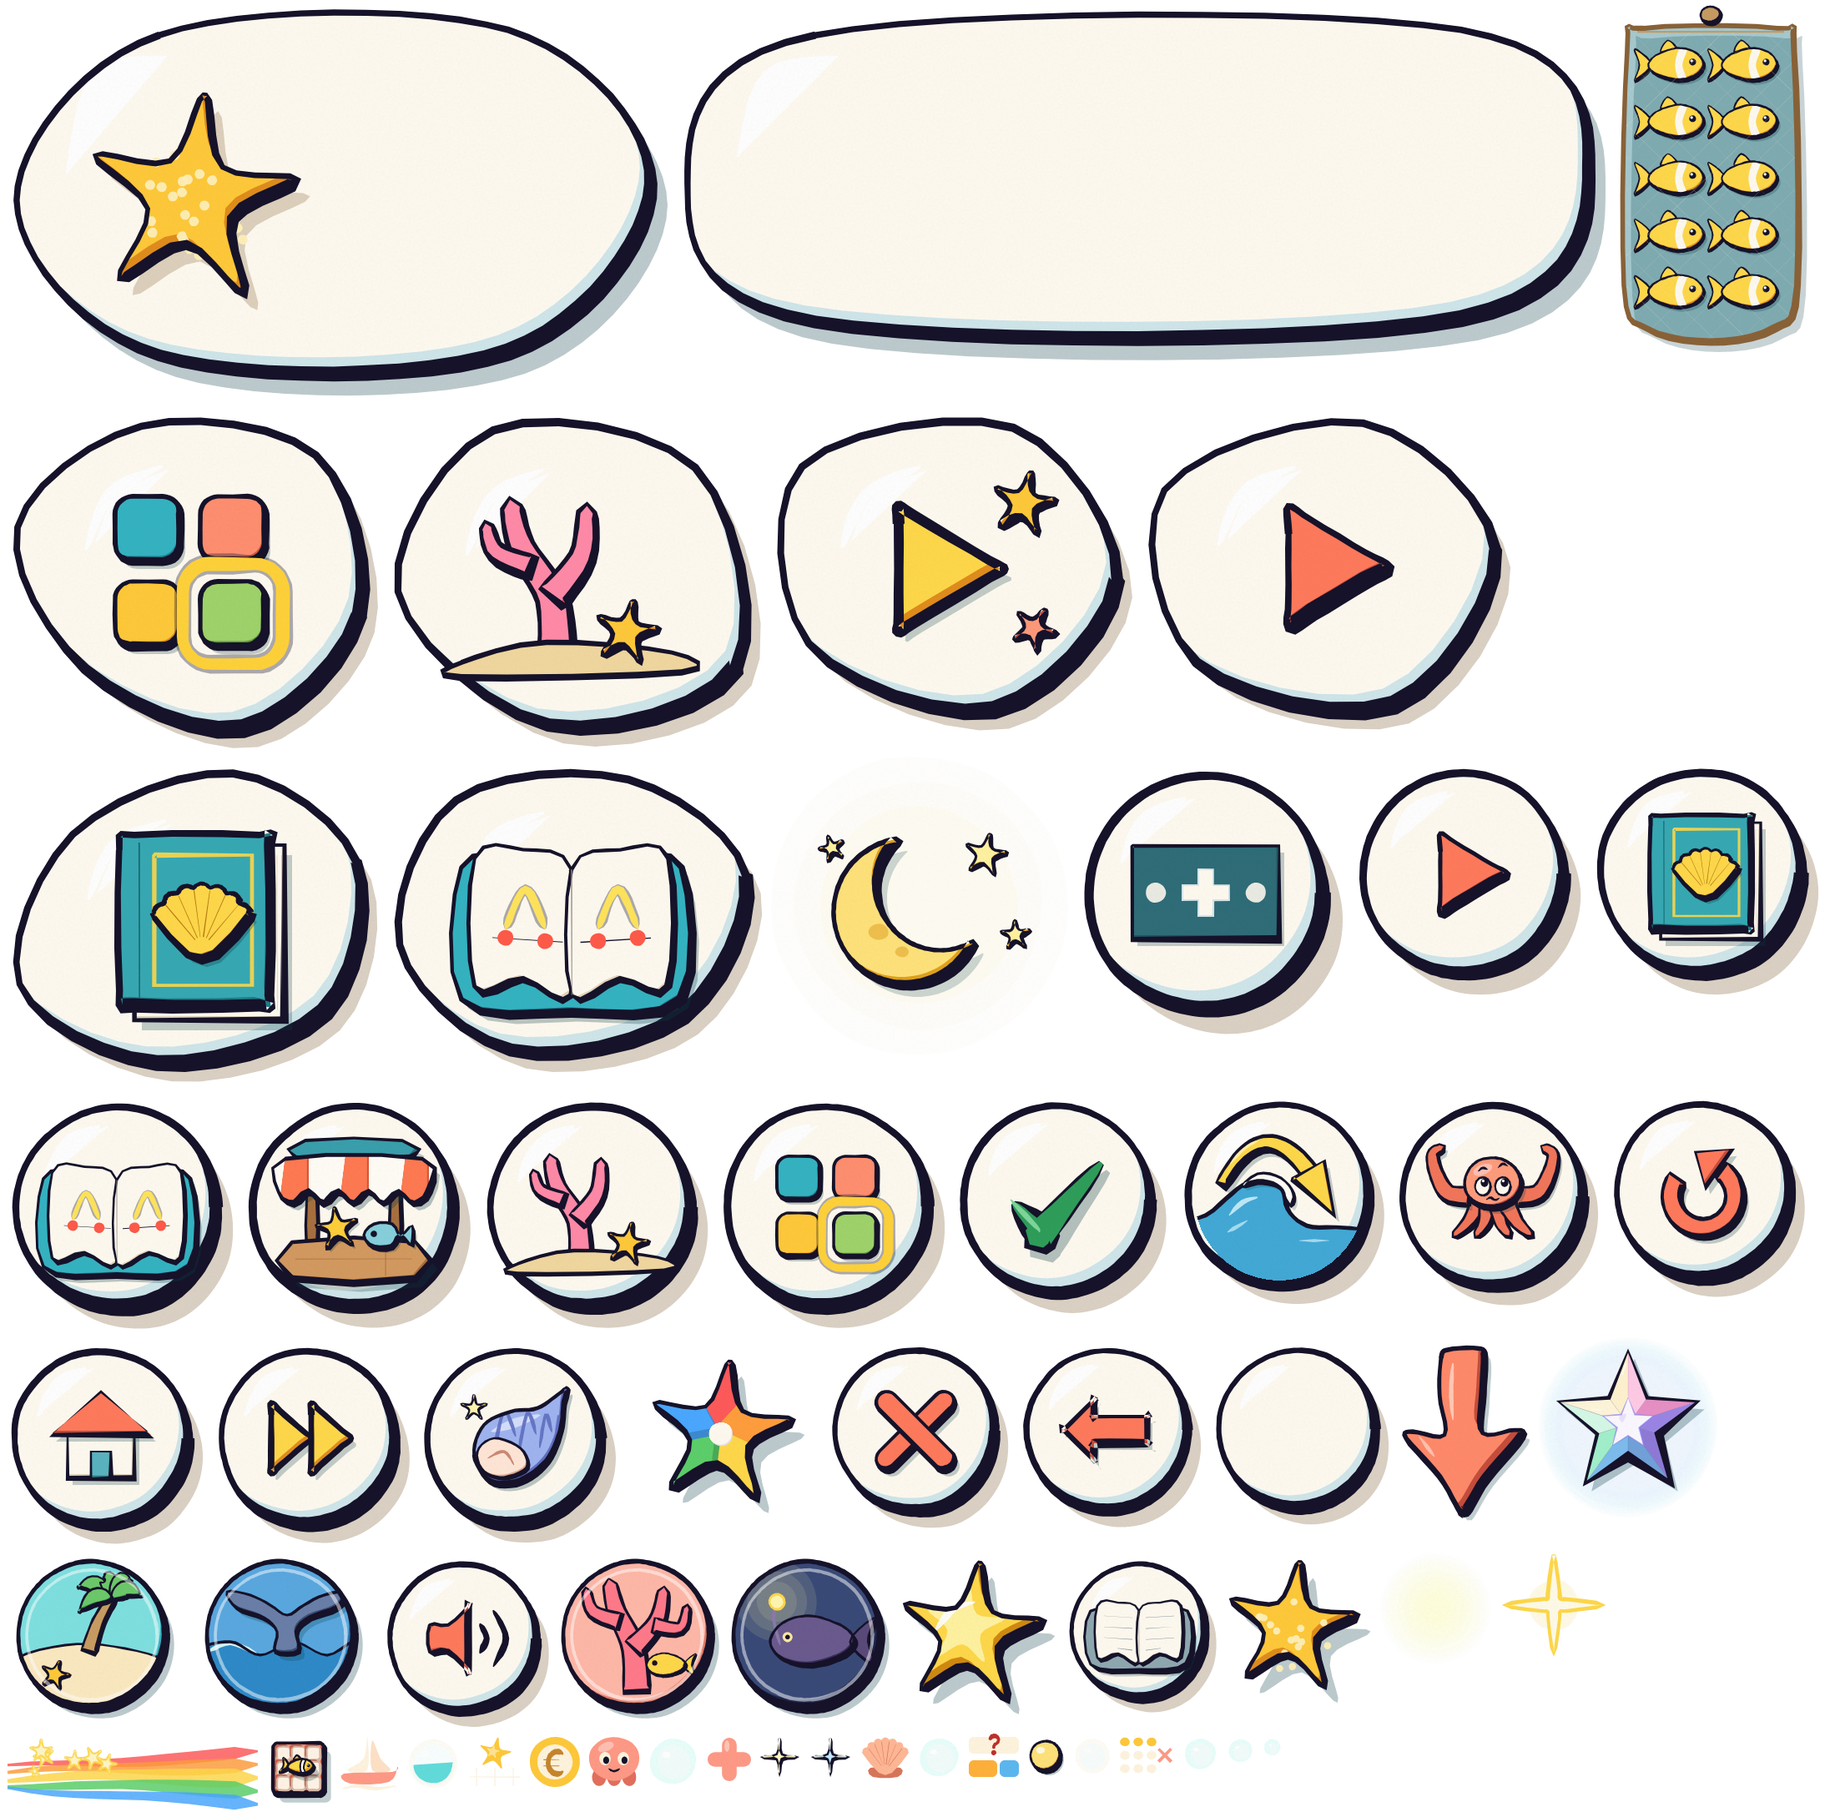
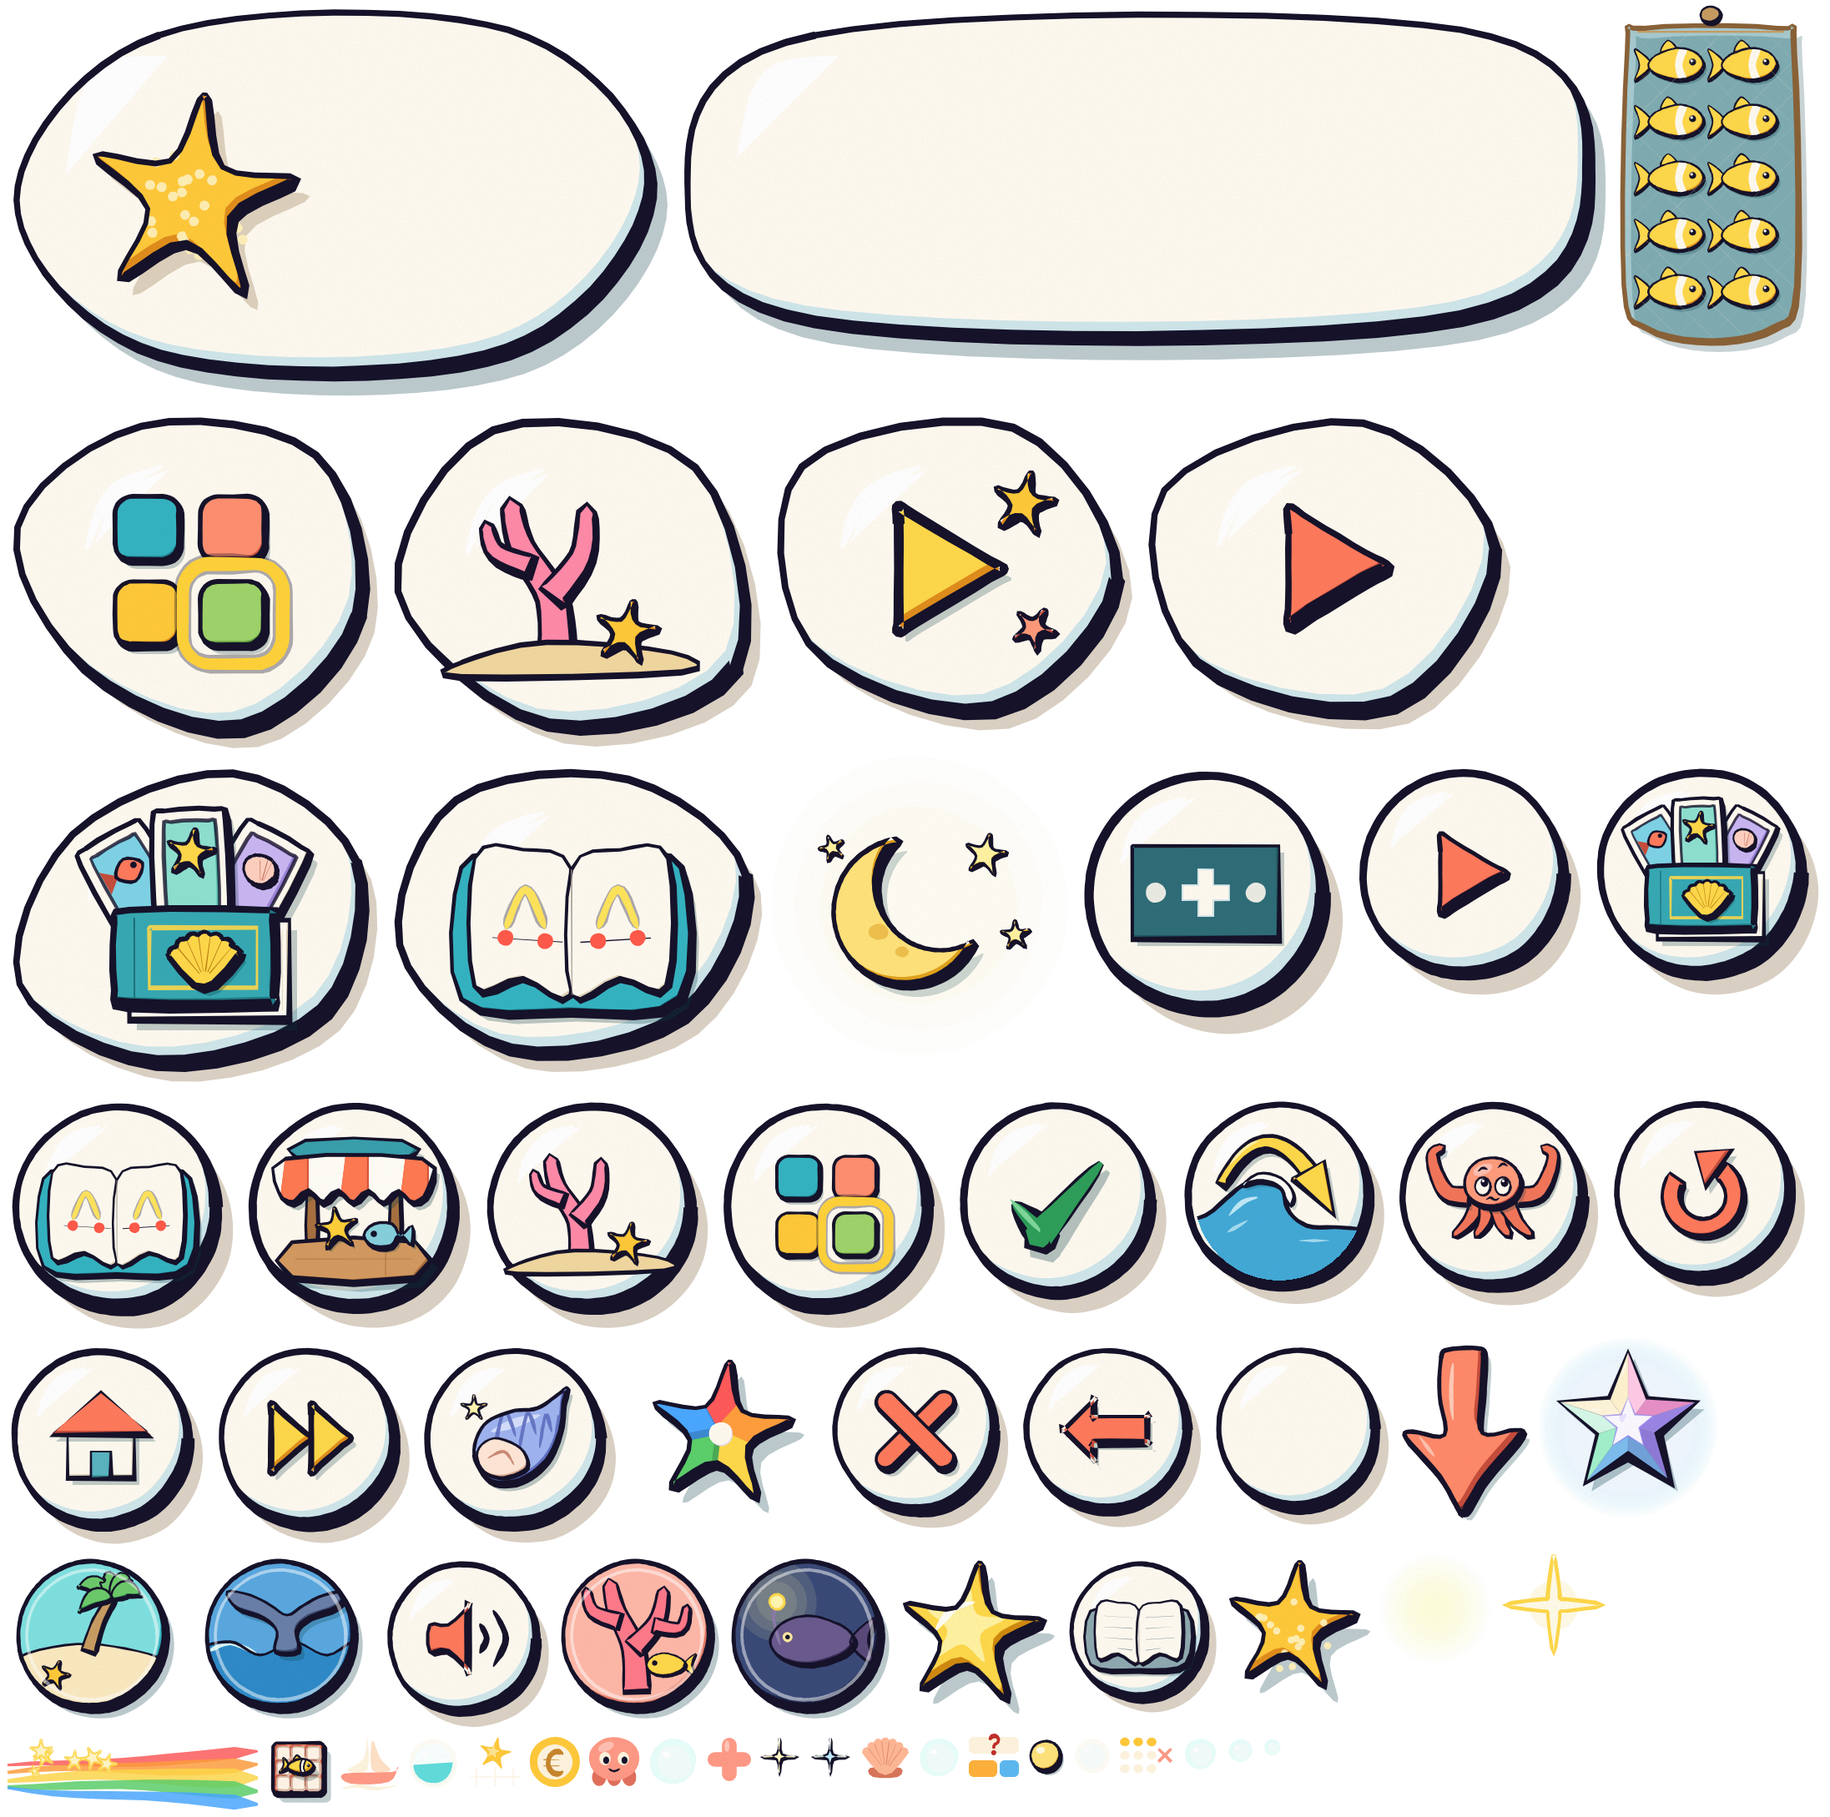
Réserve arc-en-ciel montrée à 0, livre de cartes pour l'album, sortie de l'album par le récif
Réponses du parent du 6 novembre 2026 aux questions ouvertes de la PR #75 :
- les trois compteurs toujours visibles ; la réserve arc-en-ciel à 0
  touchée dit à quoi elles servent puis « Viens jouer souvent : tu en
  gagneras une ! » (aucune phrase nouvelle) ;
- le bouton de l'album, dans le récif : un livre de cartes dessiné dans
  l'atelier (sea/ui.ts), à la taille de la maison ;
- la sortie de l'album : le dessin du récif (comme la boutique).
Parcours du lot : tests/e2e/suites-5-novembre.mjs.

Claude-Session: https://claude.ai/code/session_013eorU28WW9wEYPXEPWCJhw

Changed region(s): [[0.031, 0.4371, 0.186, 0.562], [0.8682, 0.4371, 0.9922, 0.5308]]

diff --git a/art/src/canvas-core/sea/ui.ts b/art/src/canvas-core/sea/ui.ts
@@ -53,25 +53,54 @@ export const drawAgainIcon = (g: Gfx, cx: number, cy: number) => {
     const st2 = O.starShape([cx + 34, cy + 24], 9, 4, 0.5); cel(g, st2, "#ff9a7a", CORAL_S, 2); contour(g, st2, 2.2, 3432);
   });
 };
-// « album » : un livre fermé, couverture turquoise et tranche crème, un coquillage doré sur la couverture
+// « album » : un livre de cartes : le livre fermé de l'album (couverture turquoise, coquillage doré), trois cartes en éventail qui en
+// sortent par le haut (lot « Suites des correctifs du 5 novembre », décision du parent du 6 novembre 2026 : l'album, ouvert depuis le
+// récif, ne se confond plus avec le livre ouvert des leçons)
 export const drawAlbumKey = (g: Gfx, cx: number, cy: number) => {
   drawAnswerBubble(g, cx, cy, 20, 60);
   drawAlbumIcon(g, cx, cy);
 };
+// une petite carte, tournée de `a` autour du milieu de son bas (px, py) : le cadre crème, la fenêtre de mer, et ce qu'elle montre
+const CARTES: { a: number; h: number; eau: string; eauS: string; motif: "poisson" | "etoile" | "coquille" }[] = [
+  { a: -0.52, h: 50, eau: "#7fd3e6", eauS: "#4aa6c4", motif: "poisson" },
+  { a: 0.5, h: 50, eau: "#c9b6f2", eauS: "#9a83d6", motif: "coquille" },
+  { a: -0.04, h: 54, eau: "#8fe0d0", eauS: "#4fb3a4", motif: "etoile" },
+];
+const drawMiniCard = (g: Gfx, px: number, py: number, c: (typeof CARTES)[number], seed: number) => {
+  const W = 30, ca = Math.cos(c.a), sa = Math.sin(c.a), T = (pts: P[]): P[] => pts.map(([x, y]) => [px + x * ca - y * sa, py + x * sa + y * ca]);
+  const rr = (x: number, y: number, w: number, h: number, r: number): P[] => smooth([[x + r, y], [x + w - r, y], [x + w, y + r], [x + w, y + h - r], [x + w - r, y + h], [x + r, y + h], [x, y + h - r], [x, y + r]], true, 3);
+  const card = T(rr(-W / 2, -c.h, W, c.h, 5)), win = T(rr(-W / 2 + 4.5, -c.h + 4.5, W - 9, c.h - 13, 3));
+  fillShape(g, shift(card, 3, 4), SH, 0.25); cel(g, card, "#fffaf0", "#e0d4bc", 2.5); contour(g, card, 2.8, seed);
+  cel(g, win, c.eau, c.eauS, 2); ink(g, win, INK, { w: 1.4, closed: true, shadow: 0, seed: seed + 1 }, 0.8);
+  // le motif, dans le haut de la fenêtre (le bas est caché par le livre)
+  const my = -c.h * 0.68, m = T([[0, my]])[0];
+  if (c.motif === "poisson") {
+    const body = T(smooth([[7, my], [1, my - 5], [-5, my], [1, my + 5]], true, 4)), tail = T([[-4, my], [-10, my - 5], [-10, my + 5]]);
+    fillShape(g, tail, CORAL_S); fillShape(g, body, CORAL); ink(g, body, INK, { w: 1.3, closed: true, shadow: 0, seed: seed + 2 });
+    const oe = T([[3.5, my - 1]])[0]; fillShape(g, blob(oe[0], oe[1], 1.3, 1.3, seed + 3, 0.02, 8), INK);
+  } else if (c.motif === "etoile") {
+    const st = O.starShape(m, 10, 4.4, c.a + 0.2); cel(g, st, GOLD, GOLD_S, 1.6); contour(g, st, 2, seed + 2);
+  } else {
+    const sh = blob(m[0], m[1], 7, 6, seed + 2, 0.06, 12, c.a); cel(g, sh, "#ffd0c0", "#e2907a", 1.6); contour(g, sh, 1.8, seed + 3);
+    [-0.5, 0, 0.5].forEach((d, i) => ink(g, [[m[0] + Math.sin(c.a + d) * 1.5, m[1] + 4], [m[0] + Math.sin(c.a + d) * 6, m[1] - 4]], "#c06a55", { w: 1.1, shadow: 0, seed: seed + 4 + i }));
+  }
+};
 // (lot « Correctifs : passage… », point 10 : le pictogramme seul, repris agrandi sur le galet de l'accueil)
 export const drawAlbumIcon = (g: Gfx, cx: number, cy: number) => {
+  // les cartes, derrière le livre : elles en sortent par le haut
+  CARTES.forEach((c, i) => drawMiniCard(g, cx + (i === 0 ? -10 : i === 1 ? 10 : 0), cy + 10, c, 3460 + i * 10));
   g.group("plain", () => {
-    const x0 = cx - 30, x1 = cx + 30, y0 = cy - 34, y1 = cy + 34;
+    const x0 = cx - 32, x1 = cx + 32, y0 = cy - 4, y1 = cy + 34;
     const pages = smooth([[x0 + 6, y0 + 4], [x1 + 6, y0 + 4], [x1 + 6, y1 + 6], [x0 + 6, y1 + 6]], true, 1);
     shadowed(g, pages, "#fffaf0", "#e0d4bc", 3, 3440, 2);
     clipped(g, pages, () => { for (let i = 1; i < 4; i++) ink(g, [[x1 - 1 + i * 2, y0 + 8], [x1 - 1 + i * 2, y1 + 2]], "#c9b48f", { w: 1.2, shadow: 0, seed: 3441 + i }); });
     const cover = smooth([[x0, y0 + 6], [x0 + 6, y0], [x1 - 4, y0], [x1, y0 + 4], [x1, y1 - 4], [x1 - 4, y1], [x0 + 6, y1], [x0, y1 - 6]], true, 3);
     cel(g, cover, "#37a9b3", "#1f7d88", 4); contour(g, cover, 3.6, 3445);
     ink(g, [[x0 + 8, y0 + 3], [x0 + 8, y1 - 3]], "#1a6a74", { w: 3, shadow: 0, taper: [0.1, 0.1], seed: 3446 });
-    const frame = smooth([[x0 + 14, y0 + 8], [x1 - 7, y0 + 8], [x1 - 7, y1 - 8], [x0 + 14, y1 - 8]], true, 1);
+    const frame = smooth([[x0 + 14, y0 + 7], [x1 - 7, y0 + 7], [x1 - 7, y1 - 7], [x0 + 14, y1 - 7]], true, 1);
     ink(g, frame, GOLD, { w: 2, closed: true, shadow: 0, seed: 3447 }, 0.9);
   });
-  drawGoldShell(g, cx + 3, cy - 2, 0.62);
+  drawGoldShell(g, cx + 4, cy + 14, 0.46);
 };
 // un coquillage doré (la couverture de l'album)
 const drawGoldShell = (g: Gfx, cx: number, cy: number, k: number) => g.group("plain", () => {

diff --git a/app/js/session/reserves.js b/app/js/session/reserves.js
@@ -1,7 +1,8 @@
 // LES RÉSERVES D'ÉTOILES (lot « Réserves d'étoiles et étoiles arc-en-ciel », décisions du parent du 2 novembre 2026 ; docs/SPEC.md,
 // section 10 ; maquette validée : art/reserves/, docs/maquettes/reserves/README.md). À droite du compteur d'étoiles de mer, là où
 // il est affiché (l'accueil, les exercices, la récompense, la boutique ; ni le récif vivant ni les leçons, où il est caché) : une
-// petite étoile arc-en-ciel et une petite étoile de diamant, chacune avec son nombre en réserve, masquée tant qu'elle vaut 0.
+// petite étoile arc-en-ciel et une petite étoile de diamant, chacune avec son nombre en réserve, montrée même à 0 (lot « Suites des
+// correctifs du 5 novembre », décision du parent du 6 novembre 2026 ; avant, masquée à 0).
 //  - LA TOUCHER fait dire combien il y en a et ce qu'elles débloquent (texteReserve). Elles ne réagissent au toucher qu'à
 //    l'accueil, dans la boutique, à la récompense et dans l'accueil en pause (app.reservesTouchables, main.js) : pendant une
 //    question, le seul toucher hors réponse reste la mascotte (décision du parent du 2 novembre 2026, à la validation) ;
@@ -17,10 +18,11 @@ import { zoneDone } from "./rewards.js";
 import { dessinerEtoileRangee, poserBoite } from "./screens.js";
 
 // (lot « Correctifs du 5 novembre ») les deux réserves sont posées par la rangée des compteurs (screens.js, rangeeCompteurs), à droite
-// du compteur d'étoiles de mer, chaque étoile à gauche de son nombre ; la réserve arc-en-ciel n'est pas montrée à 0, celle de
-// diamant l'est toujours (décision du parent du 5 novembre 2026 ; avant, masquée à 0 elle aussi)
+// du compteur d'étoiles de mer, chaque étoile à gauche de son nombre ; les deux sont toujours montrées, même à 0 : les trois compteurs
+// sont toujours visibles (décision du parent du 6 novembre 2026, lot « Suites des correctifs du 5 novembre » ; le 5 novembre, le
+// diamant seul ; avant, masquées à 0 toutes les deux)
 export const SORTES = ["arc", "diamant"];
-export const toujoursMontree = (s) => s === "diamant";
+export const toujoursMontree = () => true;
 // les réserves montrées, de gauche à droite, pour les nombres `n`
 export const reservesMontrees = (n) => SORTES.filter((s) => toujoursMontree(s) || n[s] > 0);
 
@@ -41,6 +43,9 @@ export function etatReserves(rewards, n) {
 export function texteReserve(T, cartes, sorte, e) {
   const X = T.reserves, M = cartes.reserves ?? {}, j = (...xs) => xs.filter(Boolean).join(" ");
   if (sorte === "arc") {
+    // (lot « Suites des correctifs du 5 novembre ») à 0 : à quoi elles servent, puis comment en gagner une (la phrase du diamant à 0,
+    // sans règle exacte : décision du parent du 6 novembre 2026) ; aucune phrase nouvelle
+    if (!e.n) return j(!e.fermees ? X.arcBriller : X.arcProchainesZones, X.diamantGagner, e.zonePrete ? T.boutique.zoneBientot : null);
     const nb = e.n === 1 ? X.arcUne : e.n > (M.arcDitMax ?? 50) ? X.arcBeaucoup : fill(X.arcN, { n: e.n });
     const role = !e.fermees ? (e.n === 1 ? X.arcBrillerUne : X.arcBriller) : e.n > e.fermees ? X.arcZonesEtBriller : e.n === 1 ? X.arcProchaineZone : X.arcProchainesZones;
     return j(nb, role, e.zonePrete ? T.boutique.zoneBientot : null);

diff --git a/app/js/session/album.js b/app/js/session/album.js
@@ -1,5 +1,5 @@
-// L'ALBUM DES CARTES (docs/SPEC.md, « La carte et l'album »). Ouvert par le livre-coquillage, depuis
-// l'accueil et depuis le récif ; la visite est libre et ne rapporte rien.
+// L'ALBUM DES CARTES (docs/SPEC.md, « La carte et l'album »). Ouvert par le livre de cartes, depuis le récif
+// seulement (lot « Correctifs du 5 novembre ») ; sa sortie, le dessin du récif, y ramène ; la visite est libre et ne rapporte rien.
 //  - une page par zone (quatre onglets à droite : les dos de chaque zone, assombris et fermés d'un
 //    coquillage tant que la zone n'est pas ouverte) ; chaque zone a ses 15 emplacements (5 × 3) ;
 //  - une carte obtenue est visible (son illustration dans son cadre) ; une carte pas encore découverte
@@ -16,7 +16,7 @@ const GRID = { x: 300, y: 118, gx: 18, gy: 20 }, TAB = { x: 1160, y: 200, pitch:
 
 export class Album {
   constructor(app) { this.app = app; this.open = false; this.view = new CardView(app); }
-  // la visite ; la promesse se résout quand l'enfant touche la maison
+  // la visite ; la promesse se résout quand l'enfant touche le récif (la sortie)
   async visit({ zone = null } = {}) {
     const { app } = this, { sprites, voice, text, cartes } = app;
     this.open = true; this.els = [];
@@ -30,12 +30,14 @@ export class Album {
       onBrief(app, t, () => { pop(t); this.showZone(z.id, { say: true }); }, () => z.nom);
       this.els.push(t); return t;
     });
-    const home = spriteBox(app, { x: 90 - 70, y: 712 - 70, w: 140, h: 140, cls: "bubble homekey", label: "revenir", paint: (ctx) => sprites.draw(ctx, "maison", 0, 70, 70) });
+    // la sortie : l'album s'ouvre depuis le récif et y ramène ; son bouton est le dessin du récif (lot « Suites des correctifs du
+    // 5 novembre », décision du parent du 6 novembre 2026 ; avant, la maison), à la taille de la maison du récif
+    const home = spriteBox(app, { x: 90 - 70, y: 712 - 70, w: 140, h: 140, cls: "bubble homekey album-retour", label: "le récif", paint: (ctx, px) => { const q = sprites.frame("recif", 0), k = (140 / 180) * 1.1; if (q) ctx.drawImage(q.img, q.sx, q.sy, q.w, q.h, 70 * px + q.dx * k, 70 * px + q.dy * k, q.w * k, q.h * k); } });
     this.els.push(home);
     const first = zone ?? cartes.zones.find((z) => app.rewards.zoneOpen(z.id))?.id ?? cartes.zones[0].id;
     await this.showZone(first);
     voice.stop(); voice.say(text.data.album, { instruction: true });
-    await new Promise((r) => onBrief(app, home, () => { pop(home); r(); }, "maison"));
+    await new Promise((r) => onBrief(app, home, () => { pop(home); r(); }, "recif"));
     await this.view.close();
     voice.stop(); this.leave();
   }

diff --git a/app/js/session/reef.js b/app/js/session/reef.js
@@ -6,7 +6,7 @@
 //  - un toucher bref sur une créature ouvre sa carte en grand (cards.js, CardView : la voix dit son nom et son anecdote
 //    une fois) ; doigt posé : son halo ; doigt posé puis glissé : on la déplace (oublié à la visite suivante) ; ailleurs,
 //    glisser fait défiler la mer (tout cela est le code de la maquette) ;
-//  - on entre toujours par le lagon ; la maison ramène à l'accueil ; le livre ouvre l'album ; pas de mascotte par-dessus la mer
+//  - on entre toujours par le lagon ; la maison ramène à l'accueil ; le livre de cartes ouvre l'album ; pas de mascotte par-dessus la mer
 //    (comme dans la maquette) : « réécouter » est sa petite tête ; les trois compteurs d'étoiles en haut à droite (lot « Correctifs
 //    du 5 novembre ») ;
 //  - pendant la visite, le lagon de l'application (le fond, lagon.js) se met en pause sous le récif ; les images du récif
@@ -164,8 +164,9 @@ export class Reef {
       },
     });
     const home = spriteBox(app, { x: 90 - 70, y: 712 - 70, w: 140, h: 140, cls: "bubble homekey", label: "revenir", paint: (ctx) => sprites.draw(ctx, "maison", 0, 70, 70) });
-    // l'album, par-dessus le récif (docs/SPEC.md : « depuis l'accueil et depuis le récif »)
-    const book = spriteBox(app, { x: 90 - 70, y: 560 - 70, w: 140, h: 140, cls: "bubble albumkey", label: "l'album", paint: (ctx) => { const q = sprites.frame("album", 0), k = 140 / 180, px = sprites.px; ctx.drawImage(q.img, q.sx, q.sy, q.w, q.h, 70 * px + q.dx * k, 70 * px + q.dy * k, q.w * k, q.h * k); } });
+    // l'album, par-dessus le récif (seulement depuis le récif : lot « Correctifs du 5 novembre ») ; son bouton, un livre de cartes,
+    // à la taille de la maison (lot « Suites des correctifs du 5 novembre », décision du parent du 6 novembre 2026)
+    const book = spriteBox(app, { x: 90 - 70, y: 560 - 70, w: 140, h: 140, cls: "bubble albumkey", label: "l'album", paint: (ctx) => { const q = sprites.frame("album", 0), k = (140 / 180) * 1.1, px = sprites.px; ctx.drawImage(q.img, q.sx, q.sy, q.w, q.h, 70 * px + q.dx * k, 70 * px + q.dy * k, q.w * k, q.h * k); } });
     onBrief(app, book, async () => { pop(book); await this.view.close(); if (app.album && !app.album.open) { await app.album.visit(); voice.say(text.data.recifBienvenue, { instruction: true }); } }, "album");
     this.els.push(home, book);
     // (lot « La boutique du récif ») la boutique ; (lot « Correctifs du 5 novembre », décision du parent du 5 novembre 2026) aussi
